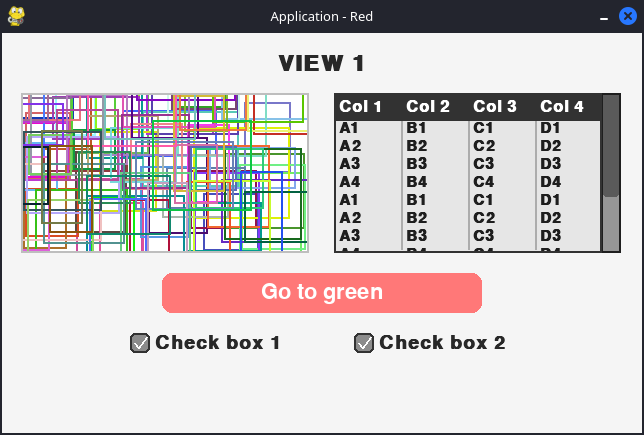
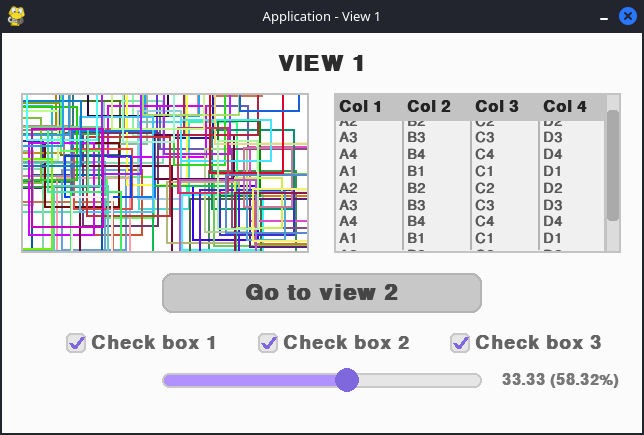
images

diff --git a/main.py b/main.py
@@ -52,8 +52,7 @@ class View1(View):
         al.addElement(table, ['52%', '15%', '45%', '40%'])
 
         # btn 
-        # custom_btn_style
-        btn = Button(self, None, "Go to view 2")
+        btn = Button(self, custom_btn_style, "Go to view 2")
         al.addElement(btn, ['25%', '60%', '50%', '40'])
         btn.setClickEvt(lambda btn: self.app.showViewWithID(VIEW2_ID))
 
